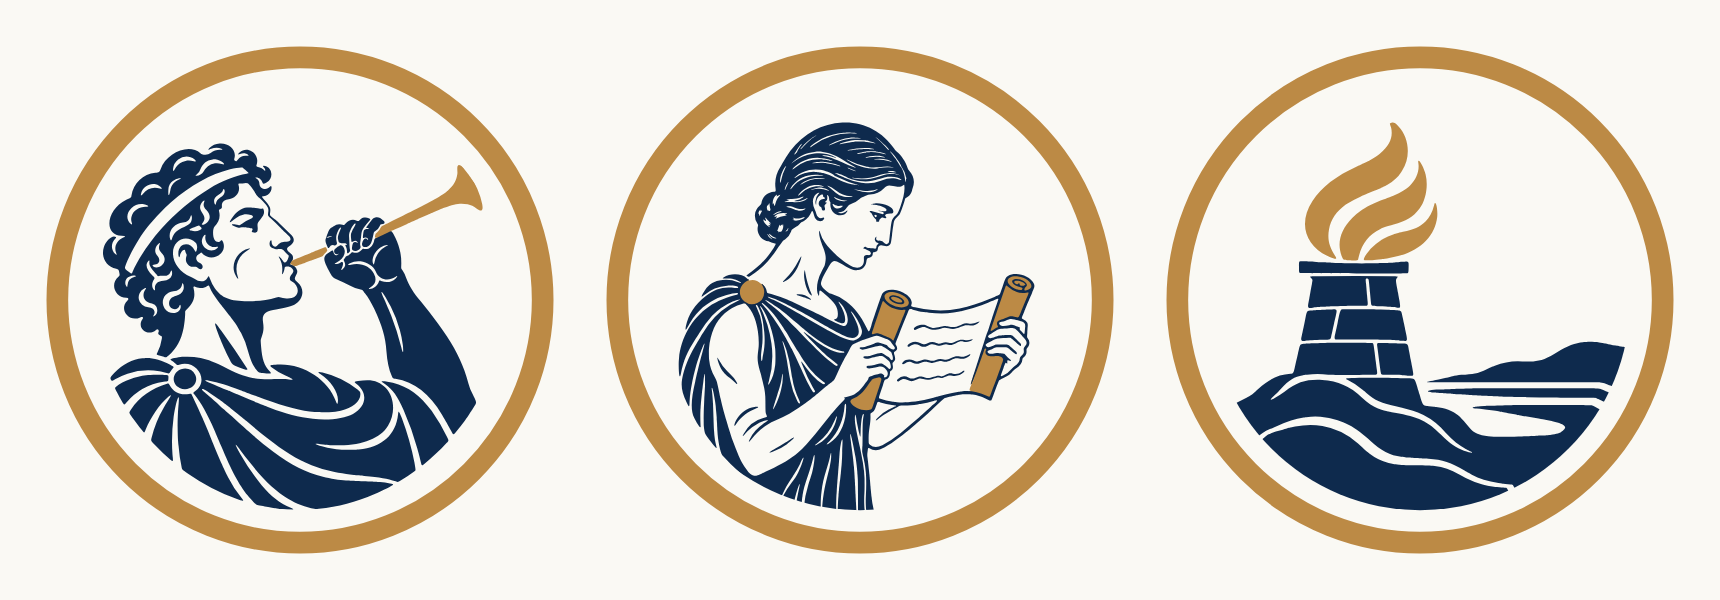
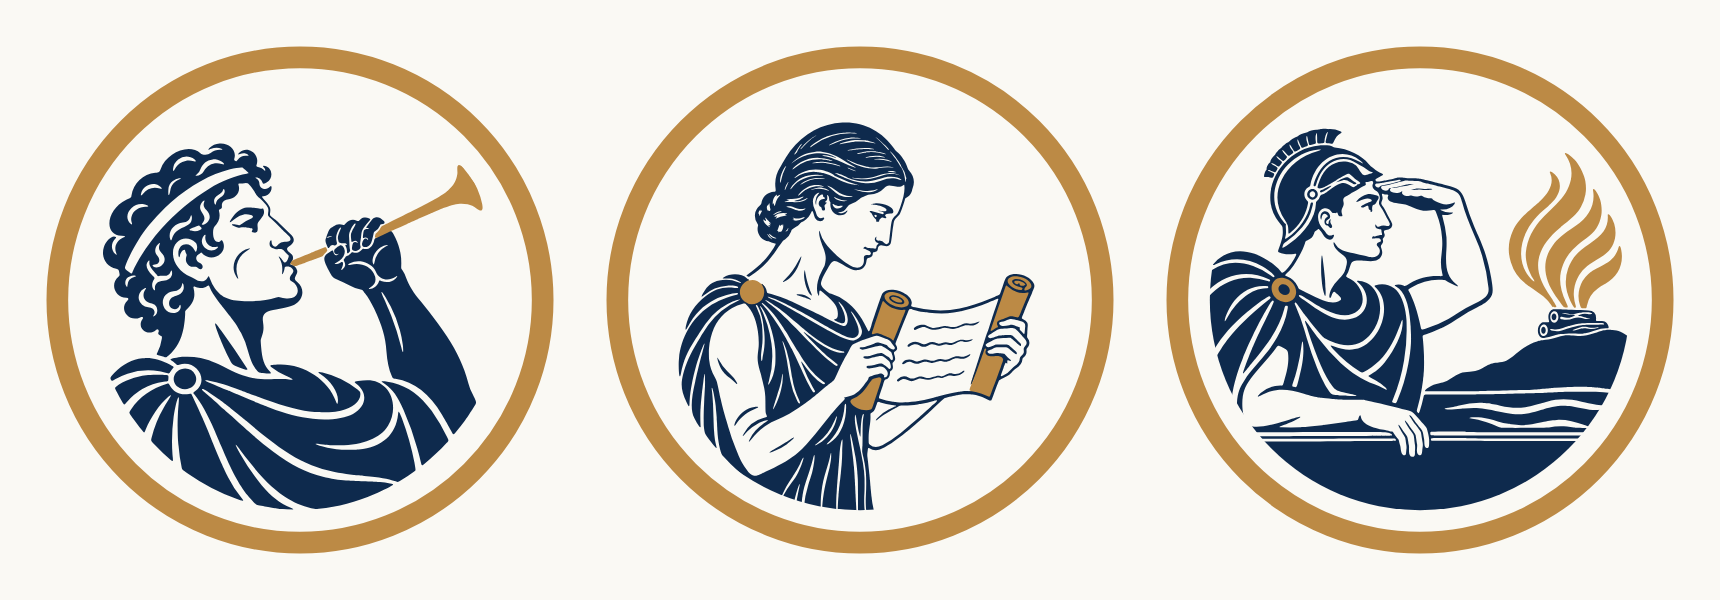
Replace the Tereon mark with the watchman who sees the beacon
The coastal beacon was the only mark without a person in a family of
figures, and a single tower with bronze on top is a lighthouse. The new
mark shows the scene the name comes from: the watchman of Aeschylus'
Agamemnon on the palace roof, shading his eyes as he sees the signal
fire on a distant mountain. Sea, mountain, and fire stay from the old
mark.

The roof edge in the drawing stopped mid-picture and merged with the
sea; a trace edit continues it to the edge. The style reference now
shows the new mark.

Claude-Session: https://claude.ai/code/session_01432t4ewimXSakDCgVZJRuM

Changed region(s): [[0.6779, 0.21, 0.9552, 0.81]]

diff --git a/marks/tereon/trace-edit.py b/marks/tereon/trace-edit.py
@@ -1,0 +1,12 @@
+# Tereon (watchman): the roof edge runs on to the right edge, in front of the sea.
+# In the drawing it stopped mid-picture and the sea continued below its level, so ledge and sea
+# merged into one dark area. Right of x = 735: the two cream lines of the moulding continue, and
+# everything below them is the navy roof; the sea stays above the ledge.
+right = (xx >= 735*S) & (d < inner - 2*S)
+lines = ((yy >= 929*S) & (yy < 937*S)) | ((yy >= 944*S) & (yy < 950*S))
+below = (yy >= 937*S) & ~lines
+navy[right & lines] = False
+navy[right & below] = True
+accent[right & (yy >= 929*S)] = False
+# Keep a navy band above the ledge, so the lowest waves do not run into its top line.
+navy[right & (yy >= 919*S) & (yy < 929*S)] = True

diff --git a/README.md b/README.md
@@ -36,7 +36,8 @@ What the marks so far have taught:
   reads as delivery, and that is not.
 - **Bronze marks the one thing the picture is about:** the laurel, the flame, the trumpet. Where
   there is no such thing, it sits in a few small fittings.
-- **Not every mark is a head.** Heads, figures, and scenes alternate so that the marks can be
+- **A person doing something carries the family.** All marks but Palamedes show a figure in
+  action, and the figures differ in age, gender, hair, and headgear so that the marks can be
   told apart at a glance.
 
 ## Members
@@ -44,7 +45,7 @@ What the marks so far have taught:
 | Product                                | Motif                                         | Stands for                                         |
 | -------------------------------------- | --------------------------------------------- | -------------------------------------------------- |
 | [Palamedes](marks/palamedes/README.md) | A laureled head                               | The inventor of letters and numbers                |
-| [Tereon](marks/tereon/README.md)       | A signal tower with a flame, on a coast       | The watchman who waits for a signal                |
+| [Tereon](marks/tereon/README.md)       | A watchman on a roof who sees a beacon fire   | The one who keeps watch for a signal               |
 | [Stentaro](marks/stentaro/README.md)   | A herald sounding a salpinx                   | The voice that carries what others say             |
 | [Terminaro](marks/terminaro/README.md) | Two people shaking hands                      | An appointment as an agreement between two         |
 | [Gramano](marks/gramano/README.md)     | Clio reading a scroll                         | The keeper of records who reads what is written    |
@@ -83,7 +84,7 @@ rest: the ring width **W = 10**.
    lower edge and is cut on it, as a figure stands on the ground line of an ancient coin.
 2. **Size it from the base upward** until its mass reaches the top limit or its widest free
    part reaches the side limit, whichever comes first.
-3. **Keep the rest free.** Head, flame, tower, or whatever the motif is about touches nothing
+3. **Keep the rest free.** Head, flame, hand, or whatever the motif is about touches nothing
    and stays inside the side limit.
 4. **Cut or clear, never almost.** A part either runs past the window and is cut, or keeps
    its distance. A part that nearly touches the window's edge is moved or redrawn.
@@ -137,7 +138,8 @@ one.
 
 ## History
 
-The frame was worked out in November 2026 on the Palamedes head and the Tereon beacon. With the
+The frame was worked out in November 2026 on the Palamedes head and the first Tereon mark, a
+signal tower on a coast. With the
 motif standing on the window and its top 1.5 W below the window's edge, both marks carry about
 the same weight at the same size.
 
@@ -145,5 +147,5 @@ the same weight at the same size.
   bust cut on the window. Its inner lines are painted in paper color, not cut out, so on a
   surface that is not paper-colored use `mark-on-dark.svg`.
 - Earlier assets for Agoros, Relanto, Stellara, and Terminaro predate the frame and were
-  removed. Agoros, which runs as Vorort in the German market, has a new mark; Relanto and Stellara are not
-  developed further; Terminaro has a new mark. They remain in the git history.
+  removed. Agoros, which runs as Vorort in the German market, has a new mark; Relanto and
+  Stellara are not developed further; Terminaro has a new mark. They remain in the git history.

diff --git a/.claude/skills/family-mark/SKILL.md b/.claude/skills/family-mark/SKILL.md
@@ -52,9 +52,8 @@ have shown:
   bowl, a sundial each stayed a prop. The herald sounding the trumpet and the muse reading the
   scroll worked on the first try. When an object motif fails, ask who would hold it.
 - **Single pieces of architecture fail.** Two columns and a doorway from the front are a bank
-  portal, however close the crop. One column on a mound with a bronze piece on top is a
-  lighthouse, and collides with Tereon. A building works only as a small thing in someone's
-  hand.
+  portal, however close the crop. One column on a mound with a bronze piece on top is a lighthouse,
+  the silhouette of the first Tereon mark. A building works only as a small thing in someone's hand.
 - **A mark need not explain itself, but it must not point the wrong way.** Nobody reads
   "translation" from the Palamedes head, and that is fine. But a winged runner reads as
   delivery, a ship under sail as shipping, scales as justice, a bowl with a snake as a
@@ -65,14 +64,14 @@ have shown:
   sign, not the goods on the table.
 - **Do not make it more literal than the product.** A fruit seller behind heaps of fruit became
   a food label, and the product is not for fruit sellers. Mixed wares say "any trade".
-- **If the product is about people meeting, show people.** Terminaro went through a water clock
-  and a sundial before the handshake of two people; the owner's sentence "every appointment is
-  an agreement between two people" was the metaphor.
-- **Check against the family before proposing.** Two marks must not share a silhouette. Keep
-  heads, figures, and scenes mixed, and vary the figures in age, gender, and hair: the family
-  has a laureled youth, a curly-haired herald, a man with long tied hair, a bearded elder, and
-  women with a knot and with open hair. A second craftsman with a tool needs a clearly different object and
-  pose.
+- **If the product is about people meeting, show people.** Terminaro went through a water clock and
+  a sundial before the handshake of two people; the owner's sentence "every appointment is an
+  agreement between two people" was the metaphor.
+- **Check against the family before proposing.** Two marks must not share a silhouette. Keep heads,
+  figures, and scenes mixed, and vary the figures in age, gender, and hair: the family has a
+  laureled youth, a curly-haired herald, a helmeted watchman, a man with long tied hair, a bearded
+  elder, and women with a knot and with open hair. A second craftsman with a tool needs a clearly
+  different object and pose.
 - **When three correction rounds have not fixed a picture, the metaphor is wrong.** Say so and
   step back. Ask whether the owner dislikes the execution or the idea; they usually know.
 
@@ -81,7 +80,7 @@ have shown:
 The template and worked examples are in [`references/prompts.md`](references/prompts.md). The
 reasons behind its parts:
 
-- **Attach the style reference.** `frame/style-reference.png` shows three finished marks. It
+- **Attach the style reference.** `frame/style-reference.png` shows three finished figure marks. It
   fixes line quality and detail better than any description. Regenerate it with
   `tools/preview-marks.mjs --reference` when better examples exist.
 - **One emblem per run.** A sheet of four gives each a quarter of the resolution, and the

diff --git a/marks/tereon/README.md b/marks/tereon/README.md
@@ -12,20 +12,37 @@ is also called a beacon.
 
 ## The mark
 
-A stone signal tower with a flame, standing on a coast above the sea.
+The watchman on the palace roof, leaning on its stone edge and shading his eyes with one hand
+as he looks across the sea at the beacon fire burning on a distant mountain.
 
-- **Navy:** tower and coast, with masonry joints and waves cut out in paper color.
-- **Bronze:** the flame, the signal itself.
+- **Navy:** his helmet and cloak, the roof edge, the sea, and the mountain.
+- **Paper color:** face, arms, and hands, and the waves and moulding lines.
+- **Bronze:** the beacon fire, the signal itself, and his shoulder clasp.
+
+Three decisions should survive any redrawing:
+
+- **The fire is large,** about as tall as his head, and the brightest thing in the picture. As
+  a small flame at the edge the story was lost.
+- **He wears a helmet, without a headband or curls.** With curly hair and a headband he was a
+  second Stentor.
+- **The roof edge runs across the whole width in front of the sea.** In the drawing it stopped
+  mid-picture and roof and sea merged into one dark area; `trace-edit.py` continues it.
 
 ## What was tried and dropped
 
 - **A Greek tau drawn as a surveyor's rod:** the first proposal; abstract and without a story.
-- **The watchman's head:** too close to the Palamedes head. Two marks that are both a man's
-  head would be hard to tell apart.
+- **The watchman's head alone:** too close to the Palamedes head.
 - **A chain of three beacons on three hills:** true to the story, but three small fires
   scatter; none of them carries the mark.
+- **A stone signal tower with a flame, on a coast:** the mark from November 2026 until the
+  family had grown. It read well at small sizes, but it was the only mark without a person in a
+  family of figures, and a single tower with bronze on top is a lighthouse. The watchman keeps
+  its sea, mountain, and fire.
+- **The watchman with curly hair, a headband, a beard, and a small fire:** the herald of
+  Stentaro once more, and the fire too small to carry the picture.
 
-## History
+## Placement and tracing
 
-Chosen in November 2026 from six generated concepts ("coastal beacon"). The frame rule of the
-family was worked out on this mark and the Palamedes head.
+Taken over as drawn, scaled to 97% and moved 1 unit down. The roof edge is continued to the
+right edge by [`trace-edit.py`](trace-edit.py), which
+[`tools/trace-mark.py`](../../tools/trace-mark.py) applies while tracing (`CLEAN_EDIT`).
